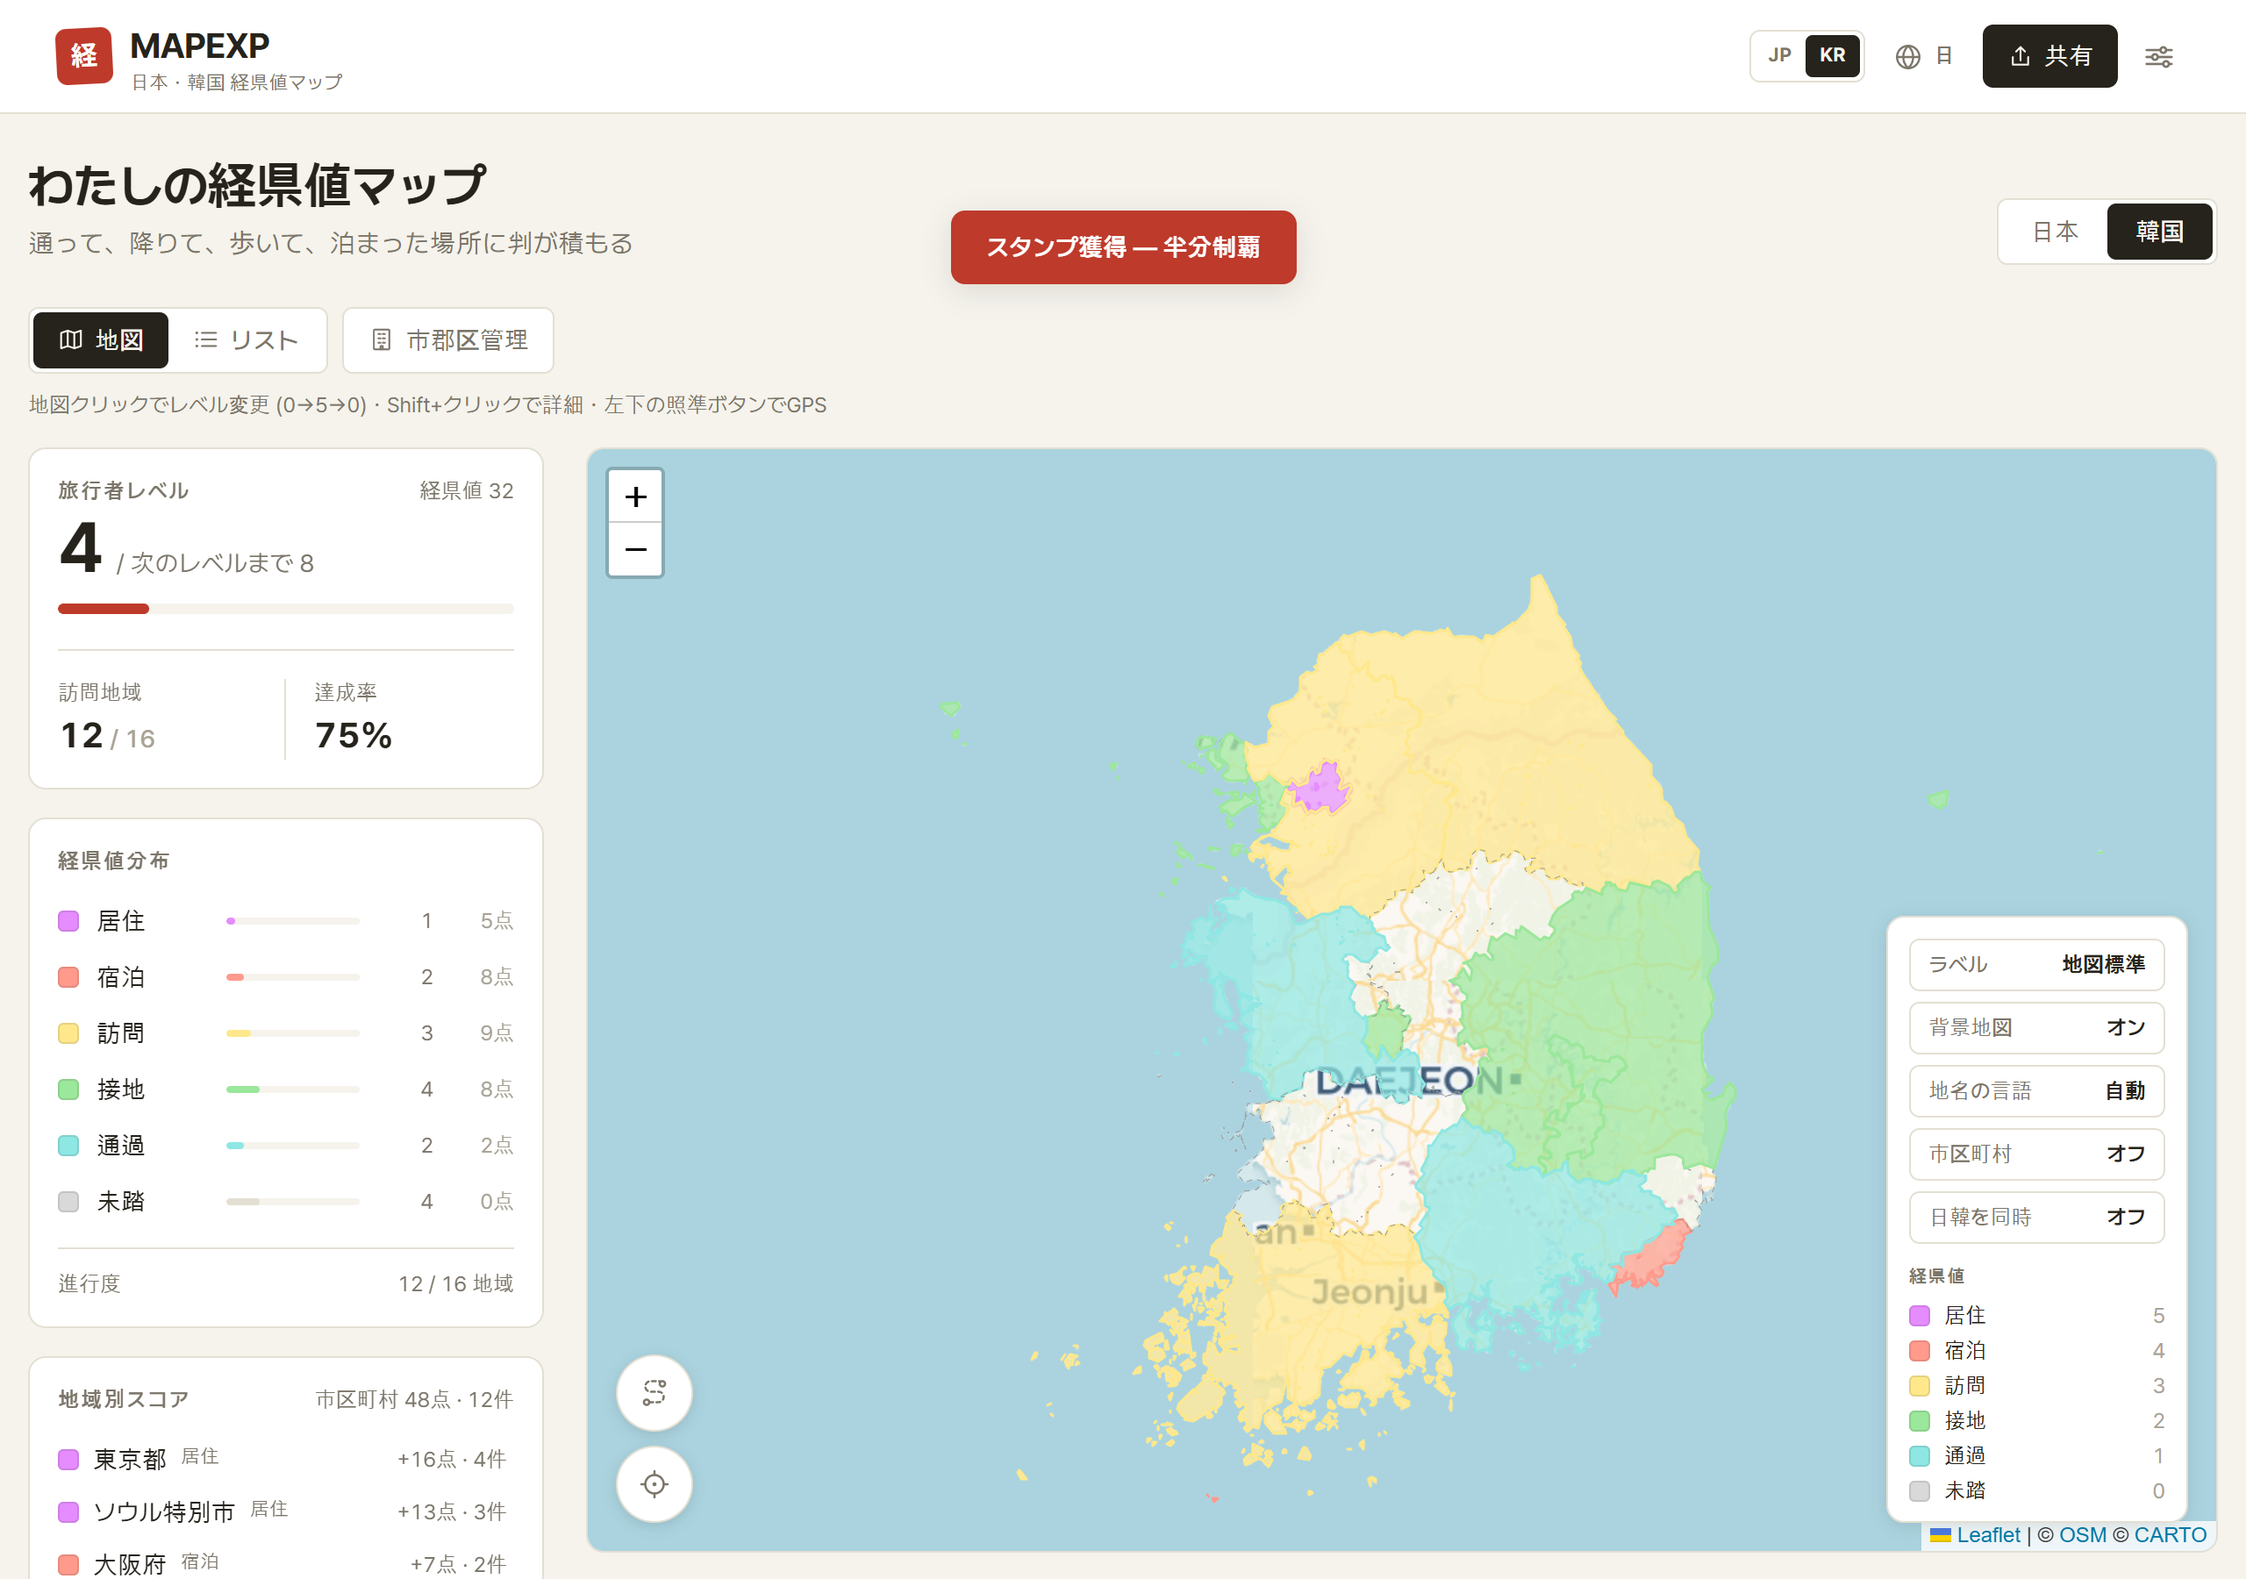
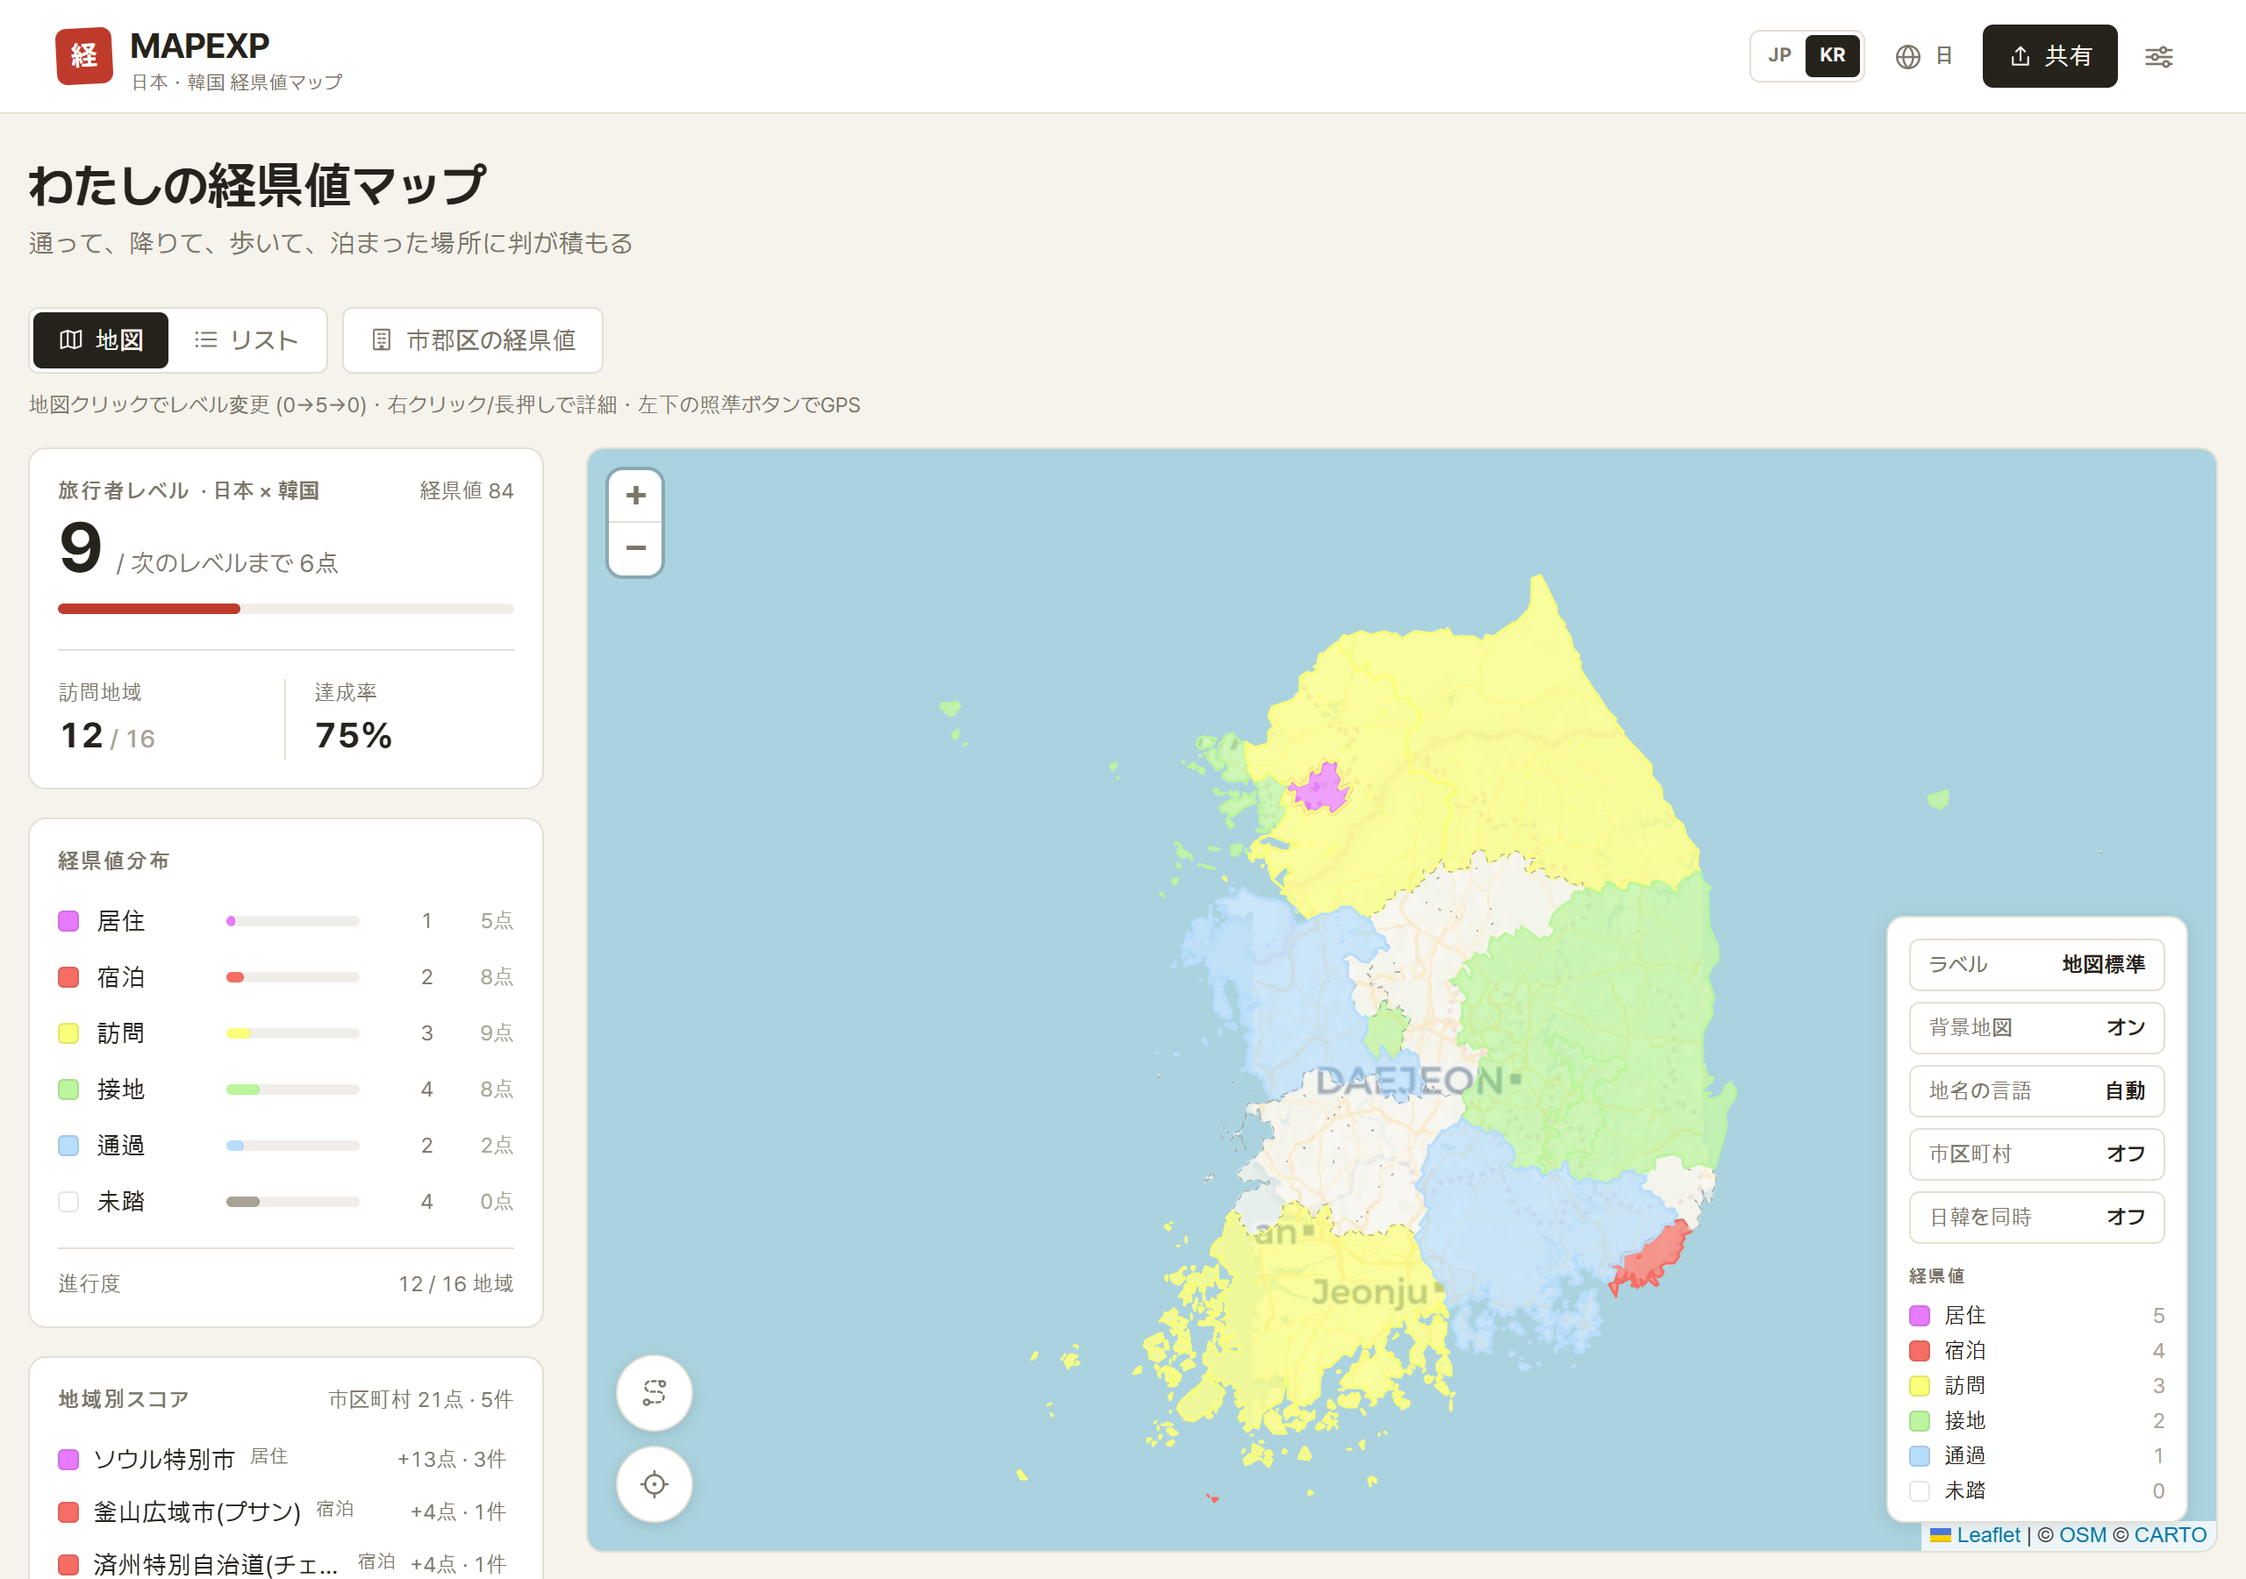
feat: UX 폴리시 + 문서 갱신 - 줌버튼 스타일, 분포 바 대비, 도장 찍기 용어, README 3언어·스크린샷 15장

diff --git a/src/components/stats/StatsPanel.tsx b/src/components/stats/StatsPanel.tsx
@@ -84,7 +84,7 @@ export default function StatsPanel({ showBoth = false }: StatsPanelProps) {
           </span>
           <span className="text-sm text-muted">{t('stats.toNext', { n: 10 - (totalGyeonghyeonchi % 10) })}</span>
         </div>
-        <div className="mt-3 w-full bg-paper rounded-full h-1.5 overflow-hidden">
+        <div className="mt-3 w-full bg-line/50 rounded-full h-1.5 overflow-hidden">
           <div
             className="bg-seal h-full rounded-full transition-all duration-700"
             style={{ width: `${(totalGyeonghyeonchi % 10) * 10}%` }}
@@ -101,7 +101,7 @@ export default function StatsPanel({ showBoth = false }: StatsPanelProps) {
                   {s.visited}
                   <span className="text-faint"> / {s.total}</span>
                 </span>
-                <span className="flex-1 h-1 bg-paper rounded-full overflow-hidden">
+                <span className="flex-1 h-1.5 bg-line/50 rounded-full overflow-hidden">
                   <span
                     className="block h-full rounded-full bg-seal"
                     style={{ width: `${s.completion}%` }}
@@ -157,10 +157,10 @@ export default function StatsPanel({ showBoth = false }: StatsPanelProps) {
                   {levelLabel(level, lang)}
                 </span>
                 {/* 미니 바 */}
-                <span className="flex-1 h-1 bg-paper rounded-full overflow-hidden">
+                <span className="flex-1 h-1.5 bg-line/50 rounded-full overflow-hidden">
                   <span
-                    className="block h-full rounded-full"
-                    style={{ width: `${pct}%`, backgroundColor: level === 0 ? 'var(--line)' : EXP_COLORS[level] }}
+                    className="block h-full rounded-full border-r border-black/5"
+                    style={{ width: `${pct}%`, backgroundColor: level === 0 ? 'var(--faint)' : EXP_COLORS[level] }}
                   />
                 </span>
                 <span className="text-xs text-muted tabular-nums w-8 text-right">{count}</span>

diff --git a/src/lib/i18n.ts b/src/lib/i18n.ts
@@ -58,8 +58,9 @@ const STRINGS = {
     'Every pass, stop, walk, and stay leaves a stamp',
     '通って、降りて、歩いて、泊まった場所に判が積もる',
   ],
-  'page.manageMunis': ['{term} 관리', '{term}', '{term}管理'],
-  'page.manageMunisLong': ['{term} 일괄 관리', 'Manage {term}', '{term}を一括管理'],
+  // '관리'는 관리자 느낌이라 사용자 언어(도장 찍기)로 - ja는 経県値 문화 용어 활용
+  'page.manageMunis': ['{term} 도장', '{term}', '{term}の経県値'],
+  'page.manageMunisLong': ['{term} 도장 찍기', 'Stamp {term}', '{term}の経県値を付ける'],
   'page.guide': [
     '지도 클릭으로 레벨 변경 (0→5→0) · 우클릭/길게 누르기로 상세 설정 · 좌하단 조준 버튼으로 GPS 추적',
     'Click map to cycle level (0→5→0) · Right-click / long-press for details · Use the locate button for GPS',
@@ -247,7 +248,7 @@ const STRINGS = {
   'map.mapLang': ['지명 언어', 'Place names', '地名の言語'],
   'map.langAuto': ['자동', 'Auto', '自動'],
   'map.muniLayer': ['기초 지역', 'Municipalities', '市区町村'],
-  'map.muniReadOnly': ['{term} 수정은 "{term} 관리"에서 할 수 있어요', 'Edit records in "Manage {term}"', '{term}の記録は「{term}管理」で編集できます'],
+  'map.muniReadOnly': ['{term} 도장은 "{term} 도장" 메뉴에서 찍을 수 있어요', 'Stamp {term} in the "{term}" menu', '{term}の判は「{term}の経県値」で押せます'],
   'map.label': ['라벨', 'Labels', 'ラベル'],
   'map.labelCustom': ['직접 표시', 'Custom', '独自表示'],
   'map.labelNative': ['지도 원본', 'Map default', '地図標準'],

diff --git a/app/globals.css b/app/globals.css
@@ -50,6 +50,34 @@ body {
   font-family: inherit;
 }
 
+/* 줌 컨트롤: 기본 Leaflet 룩 대신 페이퍼&인주 디자인 토큰으로 */
+.leaflet-control-zoom.leaflet-bar {
+  border: 1px solid var(--line);
+  border-radius: 10px;
+  overflow: hidden;
+  box-shadow: 0 2px 8px rgba(38, 35, 28, 0.14);
+}
+.leaflet-control-zoom.leaflet-bar a {
+  background: var(--card);
+  color: var(--muted);
+  border-bottom: 1px solid var(--line);
+  font-family: inherit;
+}
+.leaflet-control-zoom.leaflet-bar a:last-child {
+  border-bottom: none;
+}
+.leaflet-control-zoom.leaflet-bar a:hover {
+  background: var(--paper);
+  color: var(--ink);
+}
+
+/* 모바일: 핀치 줌이 있으므로 줌 버튼 숨김 (지도 좌상단 공간 확보) */
+@media (max-width: 640px) {
+  .leaflet-control-zoom {
+    display: none;
+  }
+}
+
 .region-tooltip {
   background-color: rgba(0, 0, 0, 0.8) !important;
   color: white !important;

diff --git a/README.ja.md b/README.ja.md
@@ -7,7 +7,7 @@
 訪れた地域ごとにスタンプを押して、旅の足あとを積み上げる地図サービス。
 日本の47都道府県・1,897市区町村と、韓国の16道市・250市郡区を**ひとつの地図で**記録できます。
 
-日本の[経県値](https://uub.jp/kkn/)の概念をもとに、日韓両国の同時記録・市区町村単位の精度・GPSスタンプで再構成しました。
+日本の[経県値](https://uub.jp/kkn/)の概念をもとに、日韓両国の同時記録・市区町村単位の精度・GPSスタンプで再構成しました。地図の配色は経県値の標準カラーをそのまま採用しています。
 
 <p align="center">
   <img src="docs/screenshots/desktop.ja.png" width="800" alt="日本地図の画面">
@@ -26,9 +26,9 @@
 
 ## 主な機能
 
-- **経県値の記録** — 地域をタップするたびにランクが変化：未踏(0) → 通過(1) → 接地(2) → 訪問(3) → 宿泊(4) → 居住(5)
-- **両国同時ビュー** — 日本と韓国の地図を一画面に表示し、合算レベル＋国別統計で記録
-- **市区町村単位** — 管理画面（リスト・ミニマップ）で市区町村ごとにスタンプ。「市区町村」トグルで全国を市区町村単位で表示
+- **経県値の記録** — 地域をタップするたびにランクが変化：未踏(0) → 通過(1) → 接地(2) → 訪問(3) → 宿泊(4) → 居住(5)。押し間違いはトーストから元に戻せて、長押しで詳細（メモ・訪問記録）
+- **両国同時ビュー** — 日本と韓国の地図を一画面に表示。旅行者レベルは常に日韓合算＋国別統計
+- **市区町村単位** — 経県値画面（リスト・ミニマップ）で市区町村ごとにスタンプ。「市区町村」トグルで全国を市区町村単位で表示
 - **地名の3言語対応** — 日本の市区町村はハングル・ローマ字（総務省の読みに基づく）、韓国の市郡区は漢字＋カタカナで表示。地名の言語はUI言語とは別に選択可能
 - **GPS** — 現在地域（都道府県＋市区町村）を自動検知、移動ルートの記録、訪問の自動記録
   - GPS認証記録は作成後に日時の編集・削除ができません（手動記録は過去日付を自由に入力可）

diff --git a/README.md b/README.md
@@ -7,7 +7,7 @@
 방문한 지역마다 도장을 찍어 여행 발자취를 쌓는 지도 서비스.
 일본 47개 도도부현·1,897개 시정촌과 한국 16개 시도·250개 시군구를 **한 지도에서** 기록합니다.
 
-일본의 [経県値](https://uub.jp/kkn/)(경현치) 개념을 바탕으로, 한일 양국 동시 기록·시정촌 정밀도·GPS 도장으로 재해석했습니다.
+일본의 [経県値](https://uub.jp/kkn/)(경현치) 개념을 바탕으로, 한일 양국 동시 기록·시정촌 정밀도·GPS 도장으로 재해석했습니다. 지도 색상은 経県値 원조 표준 팔레트를 그대로 사용합니다.
 
 <p align="center">
   <img src="docs/screenshots/desktop.png" width="800" alt="일본 지도 화면">
@@ -26,9 +26,9 @@
 
 ## 주요 기능
 
-- **도장 기록** — 지역을 탭할 때마다 등급 순환: 미답(0) → 통과(1) → 접지(2) → 방문(3) → 숙박(4) → 거주(5)
-- **양국 동시 뷰** — 일본·한국 지도를 한 화면에 띄우고 합산 레벨 + 국가별 통계로 기록
-- **시정촌/시군구 단위** — 관리 화면(목록·미니맵)에서 기초 지역별 도장, '기초 지역' 토글로 전국을 시정촌 단위로 열람
+- **도장 기록** — 지역을 탭할 때마다 등급 순환: 미답(0) → 통과(1) → 접지(2) → 방문(3) → 숙박(4) → 거주(5). 잘못 찍으면 토스트에서 바로 실행취소, 길게 누르면 상세(메모·방문 기록)
+- **양국 동시 뷰** — 일본·한국 지도를 한 화면에 띄우고 양국 합산 여행자 레벨 + 국가별 통계로 기록
+- **시정촌/시군구 단위** — 도장 찍기 화면(목록·미니맵)에서 기초 지역별 도장, '기초 지역' 토글로 전국을 시정촌 단위로 열람
 - **지명 3개 언어** — 일본 시정촌은 한글·로마자 표기(총무성 읽기 기반), 한국 시군구는 한자+가타카나 표기. 지도 지명 언어는 UI 언어와 별도로 선택 가능
 - **GPS** — 현재 지역(광역+기초 동시) 자동 감지, 이동 경로 트랙 기록, 자동 방문 감지
   - GPS 인증 기록은 생성 후 시간 수정·삭제 불가 (수동 기록은 과거 날짜 자유 입력)

diff --git a/README.en.md b/README.en.md
@@ -7,7 +7,7 @@
 A map that stamps every region you've traveled to, building up your travel footprint.
 Records Japan's 47 prefectures & 1,897 municipalities and Korea's 16 provinces & 250 municipalities — **on one map**.
 
-Based on Japan's [経県値 (Keikenchi)](https://uub.jp/kkn/) concept, reimagined with dual-country recording, municipality-level precision, and GPS stamping.
+Based on Japan's [経県値 (Keikenchi)](https://uub.jp/kkn/) concept, reimagined with dual-country recording, municipality-level precision, and GPS stamping. The map uses the original Keikenchi standard color palette.
 
 <p align="center">
   <img src="docs/screenshots/desktop.en.png" width="800" alt="Japan map view">
@@ -26,9 +26,9 @@ Based on Japan's [経県値 (Keikenchi)](https://uub.jp/kkn/) concept, reimagine
 
 ## Features
 
-- **Stamp records** — Tap a region to cycle its grade: Unvisited(0) → Passed(1) → Landed(2) → Visited(3) → Stayed(4) → Lived(5)
-- **Dual-country view** — Show Japan and Korea on one screen with a combined level plus per-country stats
-- **Municipality level** — Stamp individual municipalities in the manager view (list or mini-map); a "Municipalities" toggle renders the whole country at municipal detail
+- **Stamp records** — Tap a region to cycle its grade: Unvisited(0) → Passed(1) → Landed(2) → Visited(3) → Stayed(4) → Lived(5). Mis-taps can be undone from a toast; long-press opens details (memos, visit log)
+- **Dual-country view** — Show Japan and Korea on one screen; your traveler level always combines both countries, with per-country stats
+- **Municipality level** — Stamp individual municipalities in the stamping view (list or mini-map); a "Municipalities" toggle renders the whole country at municipal detail
 - **Place names in 3 languages** — Japanese municipalities in Hangul and romaji (from official MIC readings), Korean municipalities in kanji + katakana. Map place-name language is selectable independently of the UI language
 - **GPS** — Auto-detects your current region (province + municipality), records travel tracks, auto-logs visits
   - GPS-verified records can't be edited or deleted; manual records allow free past-date entry

diff --git a/CHANGELOG.md b/CHANGELOG.md
@@ -39,6 +39,14 @@
 - **지역별 점수 스코프 정합**: 단일 국가 뷰에서는 현재 국가 지역만 표시
 - 리스트 카드 키보드 접근성 (Tab 포커스 + Enter/Space 조작)
 - '다음 레벨까지 n' → 'n점' 단위 표기
+- 지도 줌 버튼을 디자인 시스템에 맞게 스타일링, 모바일은 숨김(핀치 줌)
+- 통계 분포 바 대비·두께 개선 (트랙이 안 보이던 문제)
+- '{기초 지역} 관리' → '{기초 지역} 도장 찍기' (일본어는 経県値 용어)
+
+### 문서
+
+- README 3언어 갱신 (원조 팔레트·실행취소·롱프레스·합산 레벨 반영)
+  + 스크린샷 15장 재캡처
 
 ---
 
